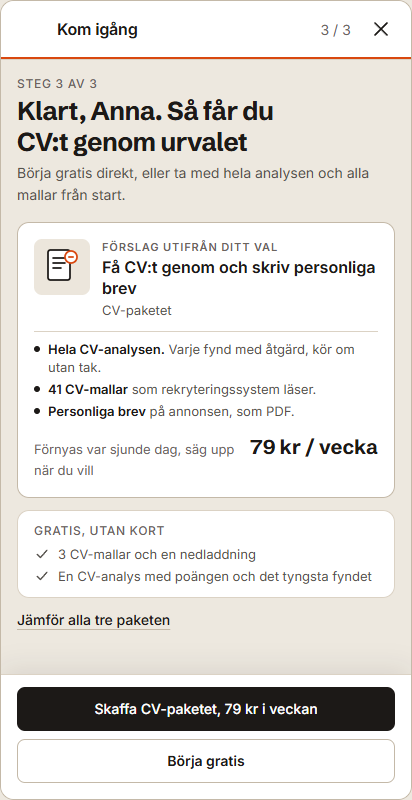
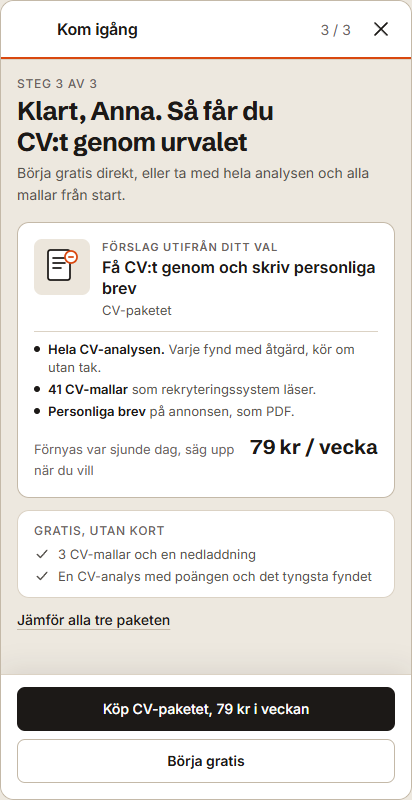
docs(design): Köp i paketknapparna, Kom igång-brickor som funktioner, aldrig CV-uppladdning som bricka

Changed region(s): [[0.233, 0.875, 0.7864, 0.9062]]

diff --git a/docs/design/profil-registrering-2026-09-24.html b/docs/design/profil-registrering-2026-09-24.html
@@ -1075,10 +1075,10 @@ td.tal,th.tal{text-align:right;font-variant-numeric:tabular-nums;white-space:now
 <section class="sektion">
   <p class="eyebrow">Del B · Steg 3 av 3</p>
   <h2>Ett förslag som följer valet, och gratis som ett lika stort val bredvid</h2>
-  <p class="led">Efter kontot, inne i appen på <code>/dashboard/valkommen</code> i FlowShell. Ett enda paketkort i spårvalets form (platta med scen, handling som rubrik, namnet under, tre rader, pris med period), sedan en ruta med vad gratis ger för just det valet, sedan en rad om första steget. Foten har två knappar i samma storlek: "Skaffa [paket], [pris]" i ink och "Börja gratis" med kant. Krysset uppe till höger gör samma sak som Börja gratis. Ingen jämförelse med tre kort här: den finns bakom "Jämför alla tre paketen" för den som vill.</p>
+  <p class="led">Efter kontot, inne i appen på <code>/dashboard/valkommen</code> i FlowShell. Ett enda paketkort i spårvalets form (platta med scen, handling som rubrik, namnet under, tre rader, pris med period), sedan en ruta med vad gratis ger för just det valet, sedan en rad om första steget. Foten har två knappar i samma storlek: "Köp [paket], [pris]" i ink och "Börja gratis" med kant. Krysset uppe till höger gör samma sak som Börja gratis. Ingen jämförelse med tre kort här: den finns bakom "Jämför alla tre paketen" för den som vill.</p>
   <div class="beslut">
     <h3>Mätregel för primärknappen</h3>
-    <p>Avläsning fyra veckor efter deploy: går över 85 procent till gratis och under 5 procent till kassan byter Skaffa och Börja gratis plats som primär. Inget annat ändras. Till dess är paketet primär, eftersom det är den enda ytan där en ny användare ser ett pris med sammanhang, och det enda köpet sedan juni kom från skärmen efter kontot.</p>
+    <p>Avläsning fyra veckor efter deploy: går över 85 procent till gratis och under 5 procent till kassan byter Köp och Börja gratis plats som primär. Inget annat ändras. Till dess är paketet primär, eftersom det är den enda ytan där en ny användare ser ett pris med sammanhang, och det enda köpet sedan juni kom från skärmen efter kontot.</p>
   </div>
   <div class="rad">
     <div class="kol">
@@ -1104,10 +1104,10 @@ td.tal,th.tal{text-align:right;font-variant-numeric:tabular-nums;white-space:now
           </div>
           <a class="textlank" href="#">Jämför alla tre paketen</a>
         </div></div>
-        <div class="fs-fot"><div class="in"><div class="tva"><span class="knapp">Skaffa CV-paketet, 79 kr i veckan</span><span class="knapp sek">Börja gratis</span></div></div></div>
+        <div class="fs-fot"><div class="in"><div class="tva"><span class="knapp">Köp CV-paketet, 79 kr i veckan</span><span class="knapp sek">Börja gratis</span></div></div></div>
       </div>
       <div class="motiv"><b>Mobil.</b> Kortet, gratisrutan och båda knapparna syns utan scroll på 800 px. Paketkortet är inte ink här (det är det på spårvalet för Hela paketet) eftersom skärmen föreslår ett paket, inte rangordnar tre. Ink sparas till Hela paketet när valet är "Hitta jobb", där det är det enda som ger funktionen.
-        <ul><li>"Förslag utifrån ditt val" står som eyebrow, så det är tydligt varför just det här paketet visas.</li><li>Skaffa går till köpsteget som finns (<code>/dashboard/valj-spar?paket=cv_week&amp;steg=kop</code>) med kvitto, samtycke och kassa oförändrade. Börja gratis går direkt till CV-byggaren.</li><li>Orange: framstegslinjen (1). Scenens lilla accent räknas som illustration, inte som yta.</li></ul></div>
+        <ul><li>"Förslag utifrån ditt val" står som eyebrow, så det är tydligt varför just det här paketet visas.</li><li>Köp går till köpsteget som finns (<code>/dashboard/valj-spar?paket=cv_week&amp;steg=kop</code>) med kvitto, samtycke och kassa oförändrade. Börja gratis går direkt till CV-byggaren.</li><li>Orange: framstegslinjen (1). Scenens lilla accent räknas som illustration, inte som yta.</li></ul></div>
     </div>
     <div class="kol">
       <p class="etikett">Pixel 7 · valet Klara rekryteringstesterna</p>
@@ -1132,7 +1132,7 @@ td.tal,th.tal{text-align:right;font-variant-numeric:tabular-nums;white-space:now
           </div>
           <a class="textlank" href="#">Jämför alla tre paketen</a>
         </div></div>
-        <div class="fs-fot"><div class="in"><div class="tva"><span class="knapp">Skaffa Träningspaketet, 79 kr i veckan</span><span class="knapp sek">Börja gratis</span></div></div></div>
+        <div class="fs-fot"><div class="in"><div class="tva"><span class="knapp">Köp Träningspaketet, 79 kr i veckan</span><span class="knapp sek">Börja gratis</span></div></div></div>
       </div>
       <div class="motiv"><b>Testvalet.</b> Den största gruppen på /register får det paket den kom för, i stället för CV-paketet förvalt. Börja gratis landar på testhubben <code>/dashboard/tester</code>, där grundnivån är öppen. Spåret sparas som <code>tester</code>, så hemskärmen och betalväggarna föreslår Träningspaketet från första dagen.</div>
     </div>
@@ -1191,7 +1191,7 @@ td.tal,th.tal{text-align:right;font-variant-numeric:tabular-nums;white-space:now
             </div>
             <a class="textlank" href="#">Jämför alla tre paketen</a>
           </div></div>
-          <div class="fs-fot"><div class="in" style="max-width:560px"><div class="tva"><span class="knapp">Skaffa Hela paketet, 99 kr i veckan</span><span class="knapp sek">Börja gratis</span></div></div></div>
+          <div class="fs-fot"><div class="in" style="max-width:560px"><div class="tva"><span class="knapp">Köp Hela paketet, 99 kr i veckan</span><span class="knapp sek">Börja gratis</span></div></div></div>
         </div>
       </div>
       <div class="motiv"><b>Menyn är densamma för alla konton. Valet styr landning, ordning och förslag, aldrig vad som syns.</b><br><br><b>Desktop, jobbvalet.</b> Här är kortet ink, eftersom Hela paketet är det enda paketet med matchning och Bli upptäckt, och ink-kortet är samma form som Hela paketet har på spårvalet och prissidan. Längderna står i prisraden, inte som segment: valet av längd görs på köpsteget som i dag.
@@ -1199,7 +1199,7 @@ td.tal,th.tal{text-align:right;font-variant-numeric:tabular-nums;white-space:now
     </div>
   </div>
   <table>
-    <thead><tr><th>Val i steg 1</th><th>Spår som sparas</th><th>Förslag i steg 3</th><th>Börja gratis landar på</th><th>Skaffa landar på</th></tr></thead>
+    <thead><tr><th>Val i steg 1</th><th>Spår som sparas</th><th>Förslag i steg 3</th><th>Börja gratis landar på</th><th>Köp landar på</th></tr></thead>
     <tbody>
       <tr><td>Skriva CV</td><td><code>cv</code></td><td>CV-paketet, 79 kr i veckan</td><td><code>/dashboard/skapa-cv</code>, byggaren</td><td>Köpsteget, sedan <code>/dashboard/vecka/start</code> som i dag</td></tr>
       <tr><td>Skriva personliga brev</td><td><code>cv</code></td><td>CV-paketet, 79 kr i veckan</td><td><code>/dashboard/skapa-brev</code>, som skickar till CV-uppladdningen när CV saknas</td><td>Samma</td></tr>
@@ -1219,7 +1219,8 @@ td.tal,th.tal{text-align:right;font-variant-numeric:tabular-nums;white-space:now
   <div class="beslut">
     <h3>De tre punkterna</h3>
     <ol>
-      <li><b>Kom igång per intent för gratiskonton.</b> <code>KOM_IGANG_LISTA.gratis</code> blir fem listor, en per intent, med samma regel: det hon kom för först, sedan en gratis bricka från varje annat område. Intent tester: matrislogik grund, personlighetstestet, intervjuprovet, ladda upp CV, CV-analysen, tre matchade jobb. Intent CV: ladda upp CV, CV-analysen, en mall, ett personligt brev, matrislogik grund, intervjuprovet. Varje bricka går att göra utan att betala, så arket säljer ingenting och visar allt.</li>
+      <li><b>Kom igång per intent för gratiskonton.</b> <code>KOM_IGANG_LISTA.gratis</code> blir fem listor, en per intent, med samma regel: det hon kom för först, sedan en gratis bricka från varje annat område. Intent tester: matrislogik grund, personlighetstestet, intervjuprovet, analysera ditt CV, skriv ett personligt brev, se tre matchade jobb. Intent CV: analysera ditt CV, välj en CV-mall, skriv ett personligt brev, se tre matchade jobb, matrislogik grund, intervjuprovet. Varje bricka går att göra utan att betala, så arket säljer ingenting och visar allt.</li>
+      <li><b>Brickorna är funktioner, aldrig steg.</b> Varje bricka ger något: en poäng, ett brev, jobb, ett testresultat. "Ladda upp CV:t" är ingen bricka i gratislistorna. Uppladdningen är första steget inne i den funktion hon väljer (analysen, brevet, mallen, matchningen) och ligger till grund för alla fyra.</li>
       <li><b>Träningsfokus på hemskärmen även för gratis.</b> I dag kräver det <code>scope === 'tester'</code>. Villkoret blir <code>scope === 'tester'</code> eller <code>onboarding_intent</code> tester eller intervju. Utan det pekar hemskärmen på CV-uppladdning för den som kom för ett test.</li>
       <li><b>Intent som ordning i <code>useUnusedFeatures</code>.</b> Förslaget efter första dokumentet väljs ur det andra området: CV-intent får testerna först, test-intent får CV-analysen först. Där ska korsanvändningen födas.</li>
     </ol>
@@ -1262,14 +1263,14 @@ td.tal,th.tal{text-align:right;font-variant-numeric:tabular-nums;white-space:now
           </ol>
           <p class="omrade">Gratis i de andra delarna</p>
           <ol class="brickor">
-            <li class="bricka"><span class="ip"><svg class="ik"><use href="#ik-cv"/></svg></span><span><b>Ladda upp CV:t</b><small>PDF eller Word, en minut</small></span><span class="ring"></span></li>
-            <li class="bricka"><span class="ip"><svg class="ik"><use href="#ik-analys"/></svg></span><span><b>CV-analysen, gratisnivån</b><small>Poängen och tyngsta fyndet</small></span><span class="ring"></span></li>
-            <li class="bricka"><span class="ip"><svg class="ik"><use href="#ik-jobb"/></svg></span><span><b>Tre matchade jobb</b><small>Jobb du inte hittat själv, med skälen</small></span><span class="ring"></span></li>
+            <li class="bricka"><span class="ip"><svg class="ik"><use href="#ik-analys"/></svg></span><span><b>Analysera ditt CV</b><small>Poängen och det tyngsta fyndet</small></span><span class="ring"></span></li>
+            <li class="bricka"><span class="ip"><svg class="ik"><use href="#ik-brev"/></svg></span><span><b>Skriv ett personligt brev</b><small>Ett ingår gratis att läsa</small></span><span class="ring"></span></li>
+            <li class="bricka"><span class="ip"><svg class="ik"><use href="#ik-jobb"/></svg></span><span><b>Se tre matchade jobb</b><small>Jobb du inte hittat själv, med skälen</small></span><span class="ring"></span></li>
           </ol>
         </div>
       </div>
-      <div class="motiv"><b>Kom igång, intent tester.</b> Samma ark och samma brickor som i dag (<code>KomIgangArk</code>, 64 px höga, ikon på insunken platta, ring till höger), bara en annan lista. Den som kom för testerna ser testerna först och därefter en bricka ur varje annat område: CV, analys och jobb. Så ser hon hela bredden första gången, utan en egen "Det här finns också"-rad.
-        <ul><li>Två små områdesetiketter i eyebrow-stil delar listan. Det är det enda nya i arket.</li><li>Undertexterna säger "Ingår gratis" där det behövs. Ingen bricka leder till en betalvägg.</li><li>Orange: Föreslaget nästa i accent-ink (1), ringens punkt (2). Som i dag.</li></ul></div>
+      <div class="motiv"><b>Kom igång, intent tester.</b> Samma ark och samma brickor som i dag (<code>KomIgangArk</code>, 64 px höga, ikon på insunken platta, ring till höger), bara en annan lista. Den som kom för testerna ser testerna först och därefter en funktion ur varje annat område: CV-analysen, ett personligt brev och tre matchade jobb. Så ser hon hela bredden första gången, utan en egen "Det här finns också"-rad.
+        <ul><li>Två små områdesetiketter i eyebrow-stil delar listan. Det är det enda nya i arket.</li><li>Varje bricka är en funktion hon får något av. Att ladda upp CV:t är ingen egen bricka: trycker hon på Analysera ditt CV, Skriv ett personligt brev eller Se tre matchade jobb utan CV är uppladdningen första steget där inne, och brickan räknas som provad först när funktionen gett sitt resultat.</li><li>Undertexterna säger vad som ingår gratis. Ingen bricka leder till en betalvägg.</li><li>Orange: Föreslaget nästa i accent-ink (1), ringens punkt (2). Som i dag.</li></ul></div>
     </div>
     <div class="kol">
       <p class="etikett">Pixel 7 · samma konto, hemskärmen med arket stängt</p>
@@ -1324,7 +1325,7 @@ td.tal,th.tal{text-align:right;font-variant-numeric:tabular-nums;white-space:now
     <div><b>3. Kontosteget</b>Visat, och vilken väg.<code>signup_flow_viewed step=konto</code><code>signup_started method</code></div>
     <div><b>4. Konto</b>Klient för lösenord, server för Google, lagad.<code>signup_completed method, intent, entry</code></div>
     <div><b>5. Förslaget</b>Vilket paket visades.<code>pricing_viewed surface=signup_forslag, plan, intent</code></div>
-    <div><b>6. Beslut</b>Skaffa eller gratis.<code>track_selected intent=purchase|free</code><code>signup_landed destination</code></div>
+    <div><b>6. Beslut</b>Köp eller gratis.<code>track_selected intent=purchase|free</code><code>signup_landed destination</code></div>
   </div>
   <table>
     <thead><tr><th>Händelse</th><th>Ny eller ändrad</th><th>Egenskaper</th><th>Skjuts när</th></tr></thead>
@@ -1334,7 +1335,7 @@ td.tal,th.tal{text-align:right;font-variant-numeric:tabular-nums;white-space:now
       <tr><td><code>signup_started</code></td><td>Ändrad</td><td>Lägg till <code>intent</code>, <code>entry</code>. Skjuts också vid tryck på Google-knappen med <code>method: 'google'</code>.</td><td>Skapa konto eller Google trycks.</td></tr>
       <tr><td><code>signup_completed</code></td><td>Lagas</td><td>Lägg till <code>intent</code>, <code>entry</code>. I <code>/auth/callback</code> ska serverhändelsen inväntas (<code>await</code> med 1,5 s tak) före redirecten.</td><td>Kontot finns.</td></tr>
       <tr><td><code>pricing_viewed</code></td><td>Befintlig</td><td><code>surface: 'signup_forslag'</code>, <code>plan</code>, <code>intent</code></td><td>Steg 3 renderas.</td></tr>
-      <tr><td><code>track_selected</code></td><td>Befintlig</td><td><code>track</code>, <code>intent</code> purchase | free, <code>surface: 'signup_forslag'</code>, <code>onboarding_intent</code></td><td>Skaffa eller Börja gratis (också krysset) i steg 3.</td></tr>
+      <tr><td><code>track_selected</code></td><td>Befintlig</td><td><code>track</code>, <code>intent</code> purchase | free, <code>surface: 'signup_forslag'</code>, <code>onboarding_intent</code></td><td>Köp eller Börja gratis (också krysset) i steg 3.</td></tr>
       <tr><td><code>signup_landed</code></td><td>Ny</td><td><code>destination</code> (sökväg), <code>intent</code>, <code>claimed</code> (hämtat smakprov), <code>via</code> forslag | smakprov | redirect | paket</td><td>/dashboard/valkommen skickar vidare, alla grenar.</td></tr>
       <tr><td><code>activation_first_doc</code></td><td>Befintlig</td><td>Läses per <code>onboarding_intent</code> på personen</td><td>Oförändrat.</td></tr>
     </tbody>
@@ -1385,12 +1386,12 @@ td.tal,th.tal{text-align:right;font-variant-numeric:tabular-nums;white-space:now
       <tr><td>Steg 2, fel</td><td>Det finns redan ett konto med den adressen / Logga in i stället, så kommer du rätt. Ditt val följer med. · Logga in / Skriv ditt namn, minst två tecken. / Lösenordet måste vara minst 8 tecken. / Vi kunde inte bekräfta att du är en människa. Ladda om sidan och försök igen.</td></tr>
       <tr><td>Smakprov, per typ</td><td>Ditt intervjuprov · Skapa konto och läs hela återkopplingen · Skapa konto och läs återkopplingen / Ditt personlighetsprov · Skapa konto och läs hela tolkningen · Skapa konto och läs tolkningen / Ditt testprov · Skapa konto och se alla svar med förklaring · Skapa konto och se svaren / Ditt brev · Skapa konto och läs hela brevet · Skapa konto och läs brevet / Ditt CV · Skapa konto och fortsätt på ditt CV · Skapa konto och fortsätt / Statusrad: Ditt svar är sparat i sju dagar (brev och CV: Det du skrivit är sparat i sju dagar) / Fotnot: Gratis. Inget kort behövs.</td></tr>
       <tr><td>Steg 3, gemensamt</td><td>Kom igång (topprad) / Steg 3 av 3 / Förslag utifrån ditt val / Gratis, utan kort / Jämför alla tre paketen / Börja gratis / Förnyas var sjunde dag, säg upp när du vill</td></tr>
-      <tr><td>Steg 3, CV</td><td>Klart, {förnamn}. Så får du CV:t genom urvalet / Börja gratis direkt, eller ta med hela analysen och alla mallar från start. / Få CV:t genom och skriv personliga brev · CV-paketet / Hela CV-analysen. Varje fynd med åtgärd, kör om utan tak. · 41 CV-mallar som rekryteringssystem läser. · Personliga brev på annonsen, som PDF. / Gratis: 3 CV-mallar och en nedladdning · En CV-analys med poängen och det tyngsta fyndet / Skaffa CV-paketet, 79 kr i veckan</td></tr>
-      <tr><td>Steg 3, brev</td><td>Klart, {förnamn}. Så skriver du brev som svarar på annonsen / Brevet skrivs utifrån ditt CV, så första steget är att lägga in det. / samma kort som CV / Gratis: Ett personligt brev att läsa, sedan ett i veckan · En CV-analys med poängen och det tyngsta fyndet / Skaffa CV-paketet, 79 kr i veckan</td></tr>
-      <tr><td>Steg 3, tester</td><td>Klart, {förnamn}. Så går du in förberedd på testdagen / Grundnivån är öppen redan nu. Resten av nivåerna och provläget finns i Träningspaketet. / Var förberedd på testdagen · Träningspaketet / Alla nivåer i matrislogik, verbalt och numeriskt. · Provläge mot klockan, 25 till 40 minuter. · Fördjupade personlighetstestet, 120 påståenden. / Gratis: Grundnivån i alla fyra testtyperna, en gång per typ och dygn · Personlighetstestet med 50 påståenden / Skaffa Träningspaketet, 79 kr i veckan</td></tr>
-      <tr><td>Steg 3, intervju</td><td>Klart, {förnamn}. Så övar du inför intervjun / Ett intervjuprov per dygn ingår gratis. Vill du öva utan tak finns Träningspaketet. / Var förberedd på testdagen · Träningspaketet / Intervjuprov utan tak, med återkoppling på varje svar. · Fördjupade personlighetstestet, 120 påståenden. · Alla nivåer i rekryteringstesterna. / Gratis: Ett intervjuprov per dygn med återkoppling · Personlighetstestet med 50 påståenden / Skaffa Träningspaketet, 79 kr i veckan</td></tr>
-      <tr><td>Steg 3, jobb</td><td>Klart, {förnamn}. Så hittar jobben dig / Matchningen läser ditt CV, så första steget är att lägga in det. Tre träffar ingår gratis. / Allt ingår, plus jobb som hittar dig · Hela paketet / Jobbmatchning: 25 jobb per natt, med skälen utskrivna. · Bli upptäckt: rekryterare hittar dig, anonymt tills du svarar. · Jobbcoachen, och allt i CV-paketet och Träningspaketet. / Eller Dagspasset 49 kr, månad 149 kr, kvartal 299 kr / Gratis: Tre matchade jobb · Tio frågor till Jobbcoachen / Skaffa Hela paketet, 99 kr i veckan</td></tr>
-      <tr><td>Kom igång, gratis</td><td>Kom igång / {n} av 6 / Allt här ingår gratis. / Det du valde / Gratis i de andra delarna / Brickor intent tester: Matrislogik, grundnivå · Ingår gratis, en gång per dygn / Personlighetstestet · 50 påståenden, se vad rekryteraren läser ut / Intervjuprovet · En fråga, återkoppling på svaret / Ladda upp CV:t · PDF eller Word, en minut / CV-analysen, gratisnivån · Poängen och tyngsta fyndet / Tre matchade jobb · Jobb du inte hittat själv, med skälen</td></tr>
+      <tr><td>Steg 3, CV</td><td>Klart, {förnamn}. Så får du CV:t genom urvalet / Börja gratis direkt, eller ta med hela analysen och alla mallar från start. / Få CV:t genom och skriv personliga brev · CV-paketet / Hela CV-analysen. Varje fynd med åtgärd, kör om utan tak. · 41 CV-mallar som rekryteringssystem läser. · Personliga brev på annonsen, som PDF. / Gratis: 3 CV-mallar och en nedladdning · En CV-analys med poängen och det tyngsta fyndet / Köp CV-paketet, 79 kr i veckan</td></tr>
+      <tr><td>Steg 3, brev</td><td>Klart, {förnamn}. Så skriver du brev som svarar på annonsen / Brevet skrivs utifrån ditt CV, så första steget är att lägga in det. / samma kort som CV / Gratis: Ett personligt brev att läsa, sedan ett i veckan · En CV-analys med poängen och det tyngsta fyndet / Köp CV-paketet, 79 kr i veckan</td></tr>
+      <tr><td>Steg 3, tester</td><td>Klart, {förnamn}. Så går du in förberedd på testdagen / Grundnivån är öppen redan nu. Resten av nivåerna och provläget finns i Träningspaketet. / Var förberedd på testdagen · Träningspaketet / Alla nivåer i matrislogik, verbalt och numeriskt. · Provläge mot klockan, 25 till 40 minuter. · Fördjupade personlighetstestet, 120 påståenden. / Gratis: Grundnivån i alla fyra testtyperna, en gång per typ och dygn · Personlighetstestet med 50 påståenden / Köp Träningspaketet, 79 kr i veckan</td></tr>
+      <tr><td>Steg 3, intervju</td><td>Klart, {förnamn}. Så övar du inför intervjun / Ett intervjuprov per dygn ingår gratis. Vill du öva utan tak finns Träningspaketet. / Var förberedd på testdagen · Träningspaketet / Intervjuprov utan tak, med återkoppling på varje svar. · Fördjupade personlighetstestet, 120 påståenden. · Alla nivåer i rekryteringstesterna. / Gratis: Ett intervjuprov per dygn med återkoppling · Personlighetstestet med 50 påståenden / Köp Träningspaketet, 79 kr i veckan</td></tr>
+      <tr><td>Steg 3, jobb</td><td>Klart, {förnamn}. Så hittar jobben dig / Matchningen läser ditt CV, så första steget är att lägga in det. Tre träffar ingår gratis. / Allt ingår, plus jobb som hittar dig · Hela paketet / Jobbmatchning: 25 jobb per natt, med skälen utskrivna. · Bli upptäckt: rekryterare hittar dig, anonymt tills du svarar. · Jobbcoachen, och allt i CV-paketet och Träningspaketet. / Eller Dagspasset 49 kr, månad 149 kr, kvartal 299 kr / Gratis: Tre matchade jobb · Tio frågor till Jobbcoachen / Köp Hela paketet, 99 kr i veckan</td></tr>
+      <tr><td>Kom igång, gratis</td><td>Kom igång / {n} av 6 / Allt här ingår gratis. / Det du valde / Gratis i de andra delarna / Brickor intent tester: Matrislogik, grundnivå · Ingår gratis, en gång per dygn / Personlighetstestet · 50 påståenden, se vad rekryteraren läser ut / Intervjuprovet · En fråga, återkoppling på svaret / Analysera ditt CV · Poängen och det tyngsta fyndet / Skriv ett personligt brev · Ett ingår gratis att läsa / Se tre matchade jobb · Jobb du inte hittat själv, med skälen / Övriga brickor i andra intent: Välj en CV-mall · 3 mallar och en nedladdning ingår gratis</td></tr>
       <tr><td>Hemskärmen, gratis med intent</td><td>Du valde testerna, så vi börjar med träningen. / Du valde intervjun, så vi börjar med träningen. / Kom igång · {n} av 6 provade, allt ingår gratis · Öppna</td></tr>
       <tr><td>Prova också</td><td>Prova också / CV-intent: Klarar du logiktestet? · Du har ett CV klart. Logiktest är vanliga i urvalet efter ansökan. Grundnivån ingår gratis. · Prova / Test-intent: Vad ser rekryteraren i ditt CV? · Analysen visar poängen och det tyngsta fyndet, gratis. · Prova</td></tr>
       <tr><td>Förnamn saknas</td><td>Rubriken börjar med "Klart." i stället för "Klart, {förnamn}."</td></tr>

diff --git a/docs/design/profil-registrering-spec-2026-09-24.md b/docs/design/profil-registrering-spec-2026-09-24.md
@@ -111,7 +111,7 @@ Per fält, som i dag. Textfält på blur, växlar och tonval direkt, fotot när 
 ### Flödet
 
 ```
-/register (bar)                  steg 1 val  ─┬─ steg 2 konto ─ /auth eller signUp ─ /dashboard/valkommen ─ steg 3 förslag ─┬─ Skaffa → /dashboard/valj-spar?paket=X&steg=kop → Stripe → /dashboard/vecka/start
+/register (bar)                  steg 1 val  ─┬─ steg 2 konto ─ /auth eller signUp ─ /dashboard/valkommen ─ steg 3 förslag ─┬─ Köp → /dashboard/valj-spar?paket=X&steg=kop → Stripe → /dashboard/vecka/start
 /register?borja=tester           (hoppas)    ─┘                                                                         └─ Börja gratis / kryss → landning per val
 /register?paket=cv_week          (hoppas)      steg 2 konto ─────────────────────── /dashboard/valkommen ─ direkt till köpsteget (som i dag)
 /register?intervju=|personlighet=|test=|draft=|cv_start=   ett steg, kontot ──────── /dashboard/valkommen ─ hämtkedjan ─ resultatet
@@ -140,7 +140,7 @@ Hoppa över i steg 1              steg 2 konto ───────────
 | `src/app/(public)/verktyg/rekryteringstester/page.tsx` | De fyra "Starta gratis test" går till `/register?borja=tester`. Övriga verktygssidor med bar `/register` får motsvarande `borja` (cv, brev, jobb). Grep: `href: '/register'` och `href="/register"` i `src/app/(public)`. |
 | `src/app/login/page.tsx` + `login-form.tsx` | Samma publika skal som /register (beslut 4). |
 | `src/lib/onboarding/steps.ts` | Ny konstant `VALKOMMEN_PATH = '/dashboard/valkommen'`. |
-| `src/lib/onboarding/komigang.ts` | Bredden, punkt 1 (S). `KOM_IGANG_LISTA.gratis` blir en lista per intent: det hon kom för först, sedan en gratis bricka från varje annat område. tester: matris_grund, personlighet, intervjuprov, cv_upp, analys_gratis, jobbmatchning. intervju: intervjuprov, personlighet, matris_grund, cv_upp, analys_gratis, jobbmatchning. cv: cv_upp, analys_gratis, mall, brev, matris_grund, intervjuprov. brev: cv_upp, brev, analys_gratis, mall, matris_grund, intervjuprov. jobb: cv_upp, jobbmatchning, analys_gratis, brev, matris_grund, intervjuprov. Utan intent: dagens lista. Nycklarna finns redan i `BrickaKey`. `personlighet`, `intervjuprov` och `jobbmatchning` får en gratisvariant av undertexten enligt designfilens slutcopy, samma mönster som `analys_gratis`. Arket får två områdesetiketter, "Det du valde" och "Gratis i de andra delarna". |
+| `src/lib/onboarding/komigang.ts` | Bredden, punkt 1 (S). `KOM_IGANG_LISTA.gratis` blir en lista per intent: det hon kom för först, sedan en gratis bricka från varje annat område. tester: matris_grund, personlighet, intervjuprov, analys_gratis, brev, jobbmatchning. intervju: intervjuprov, personlighet, matris_grund, analys_gratis, brev, jobbmatchning. cv: analys_gratis, mall, brev, jobbmatchning, matris_grund, intervjuprov. brev: brev, analys_gratis, mall, jobbmatchning, matris_grund, intervjuprov. jobb: jobbmatchning, analys_gratis, brev, mall, matris_grund, intervjuprov. **Regel: brickorna är funktioner man får något av, aldrig steg.** `cv_upp` och `profil` står aldrig i gratislistorna per intent. Uppladdningen är första steget inne i analysen, brevet, mallen och matchningen, och brickan markeras klar först när funktionen gett sitt resultat (`analyze_cv`, `create_letter`, `download_cv_template`, `match_jobs`). Titlar: Analysera ditt CV, Skriv ett personligt brev, Se tre matchade jobb, Välj en CV-mall. Utan intent: dagens lista. Nycklarna finns redan i `BrickaKey`. `personlighet`, `intervjuprov` och `jobbmatchning` får en gratisvariant av undertexten enligt designfilens slutcopy, samma mönster som `analys_gratis`. Arket får två områdesetiketter, "Det du valde" och "Gratis i de andra delarna". |
 | `src/app/dashboard/(oversikt)/DashboardHem.tsx` | Bredden, punkt 2 (S). `traningsFokus` gäller också när `onboarding_intent` är tester eller intervju, inte bara `scope === 'tester'`. Raden i HemHuvud för gratis: "Du valde testerna, så vi börjar med träningen." respektive intervjun. Intent intervju ger intervjufrågan först, intent tester testet först. |
 | `src/hooks/useUnusedFeatures.ts` | Bredden, punkt 3 (S). Tar `intent` som ordningsnyckel: efter första dokumentet föreslås först en funktion ur det andra området (CV-intent: matrislogik grund; test- och intervju-intent: CV-analysen). Raden byts när funktionen använts, som i dag. Skjuter `next_action_clicked` med `outside_intent`. |
 | `src/components/dashboard/Sidebar.tsx`, `src/lib/access/*` | **Ingen ändring.** Menyn och behörigheterna är desamma för alla konton, se grep-kriteriet. |
@@ -196,7 +196,7 @@ export interface ForslagStegProps {
   intent: SignupIntent
   fornamn: string | null
 }
-// Primär: "Skaffa {paketNamn}, {pris}" → /dashboard/valj-spar?paket={plan}&steg=kop
+// Primär: "Köp {paketNamn}, {pris}" → /dashboard/valj-spar?paket={plan}&steg=kop
 // Sekundär i foten (FlowShell footerSecondary): "Börja gratis" → INTENTS[intent].landning
 // onExit (krysset) = Börja gratis. Båda sparar spåret via /api/onboarding/track.
 ```
@@ -235,7 +235,7 @@ Se tabellen i designfilen, sektion "Mätning". Sammanfattning: nya `signup_flow_
 1. Headerns Skapa konto öppnar steg 1 på /register. Inga statistikrutor, ingen CV-poängmätare, ingen text om fem dagar Premium någonstans på sidan (grep `Fem dagar Premium` i src ger noll träffar).
 2. Steg 1 på Pixel 7: frågan, minst fyra kort och Fortsätt syns utan scroll. Fortsätt är spärrad tills ett kort är valt och spärrorsaken läses upp.
 3. `/register?borja=tester` visar steg 2 direkt med raden "Du börjar med rekryteringstesterna" och Ändra, som leder till steg 1 med testerna förvalda.
-4. Konto med lösenord från steg 1 med Skriva CV landar på steg 3 med CV-paketet. Börja gratis landar på `/dashboard/skapa-cv`. Skaffa landar på köpsteget med CV-paketet och samtyckesrutan.
+4. Konto med lösenord från steg 1 med Skriva CV landar på steg 3 med CV-paketet. Börja gratis landar på `/dashboard/skapa-cv`. Köp landar på köpsteget med CV-paketet och samtyckesrutan.
 5. Samma sak med Google: valet överlever redirecten (cookien), steg 3 visar rätt paket, och `signup_completed` med `method: 'google'` syns i PostHog inom en minut.
 6. Från intervjuprovet med token (lösenord och Google) landar kontot på `/dashboard/intervju/{token}` utan steg 1 och steg 3. Samma för personlighetsprovet, testprovet (`?test=`), brevutkastet (`?draft=`) och CV-starten (`?cv_start=`), där de tre sista i dag misslyckas med Google.
 7. Prissidans `?paket=all_month` landar efter kontot på köpsteget med Hela paketet och månad valt, utan steg 1 och 3.
@@ -247,7 +247,7 @@ Se tabellen i designfilen, sektion "Mätning". Sammanfattning: nya `signup_flow_
 13. /register LCP under 1,5 s på Pixel 7 över 4G (publik budget), ingen JS-bundel över dagens.
 14. **Grep-kriteriet.** `grep -rn "onboarding_intent" src` träffar bara `src/app/dashboard/valkommen/`, `src/app/api/onboarding/track/`, `src/lib/onboarding/komigang.ts` (och `komigang-server.ts`), `src/components/dashboard/KomIgang*`, `src/app/dashboard/(oversikt)/`, `src/hooks/useUnusedFeatures.ts`, `src/components/registrering/` och typfilerna. Noll träffar i `src/components/dashboard/Sidebar.tsx`, `src/lib/access/` och i någon route under `src/app/api/` utom `onboarding/track`. Testet läggs som enhetstest som läser filträdet, så att det faller i CI.
 15. Menyn är identisk för ett gratiskonto med intent cv, tester och jobb (jämför skärmdumpar av sidomenyn och mobilnavet, alla rader synliga, samma grå rader).
-16. Gratiskonto med intent tester: Kom igång visar matrislogik grundnivå först och därefter en bricka från CV, analys och jobb. Hemskärmen visar "Gör ditt första rekryteringstest" som Nästa handling, inte CV-uppladdning, med länken "Vill du börja med CV:t i stället?".
+16. Gratiskonto med intent tester: Kom igång visar matrislogik grundnivå först och därefter Analysera ditt CV, Skriv ett personligt brev och Se tre matchade jobb. Ingen gratislista per intent innehåller `cv_upp` eller `profil` (enhetstest på `KOM_IGANG_LISTA`). Hemskärmen visar "Gör ditt första rekryteringstest" som Nästa handling, inte CV-uppladdning, med länken "Vill du börja med CV:t i stället?".
 17. Gratiskonto med intent cv, efter första CV:t: raden Prova också föreslår logiktestet på grundnivå.
 
 ---
